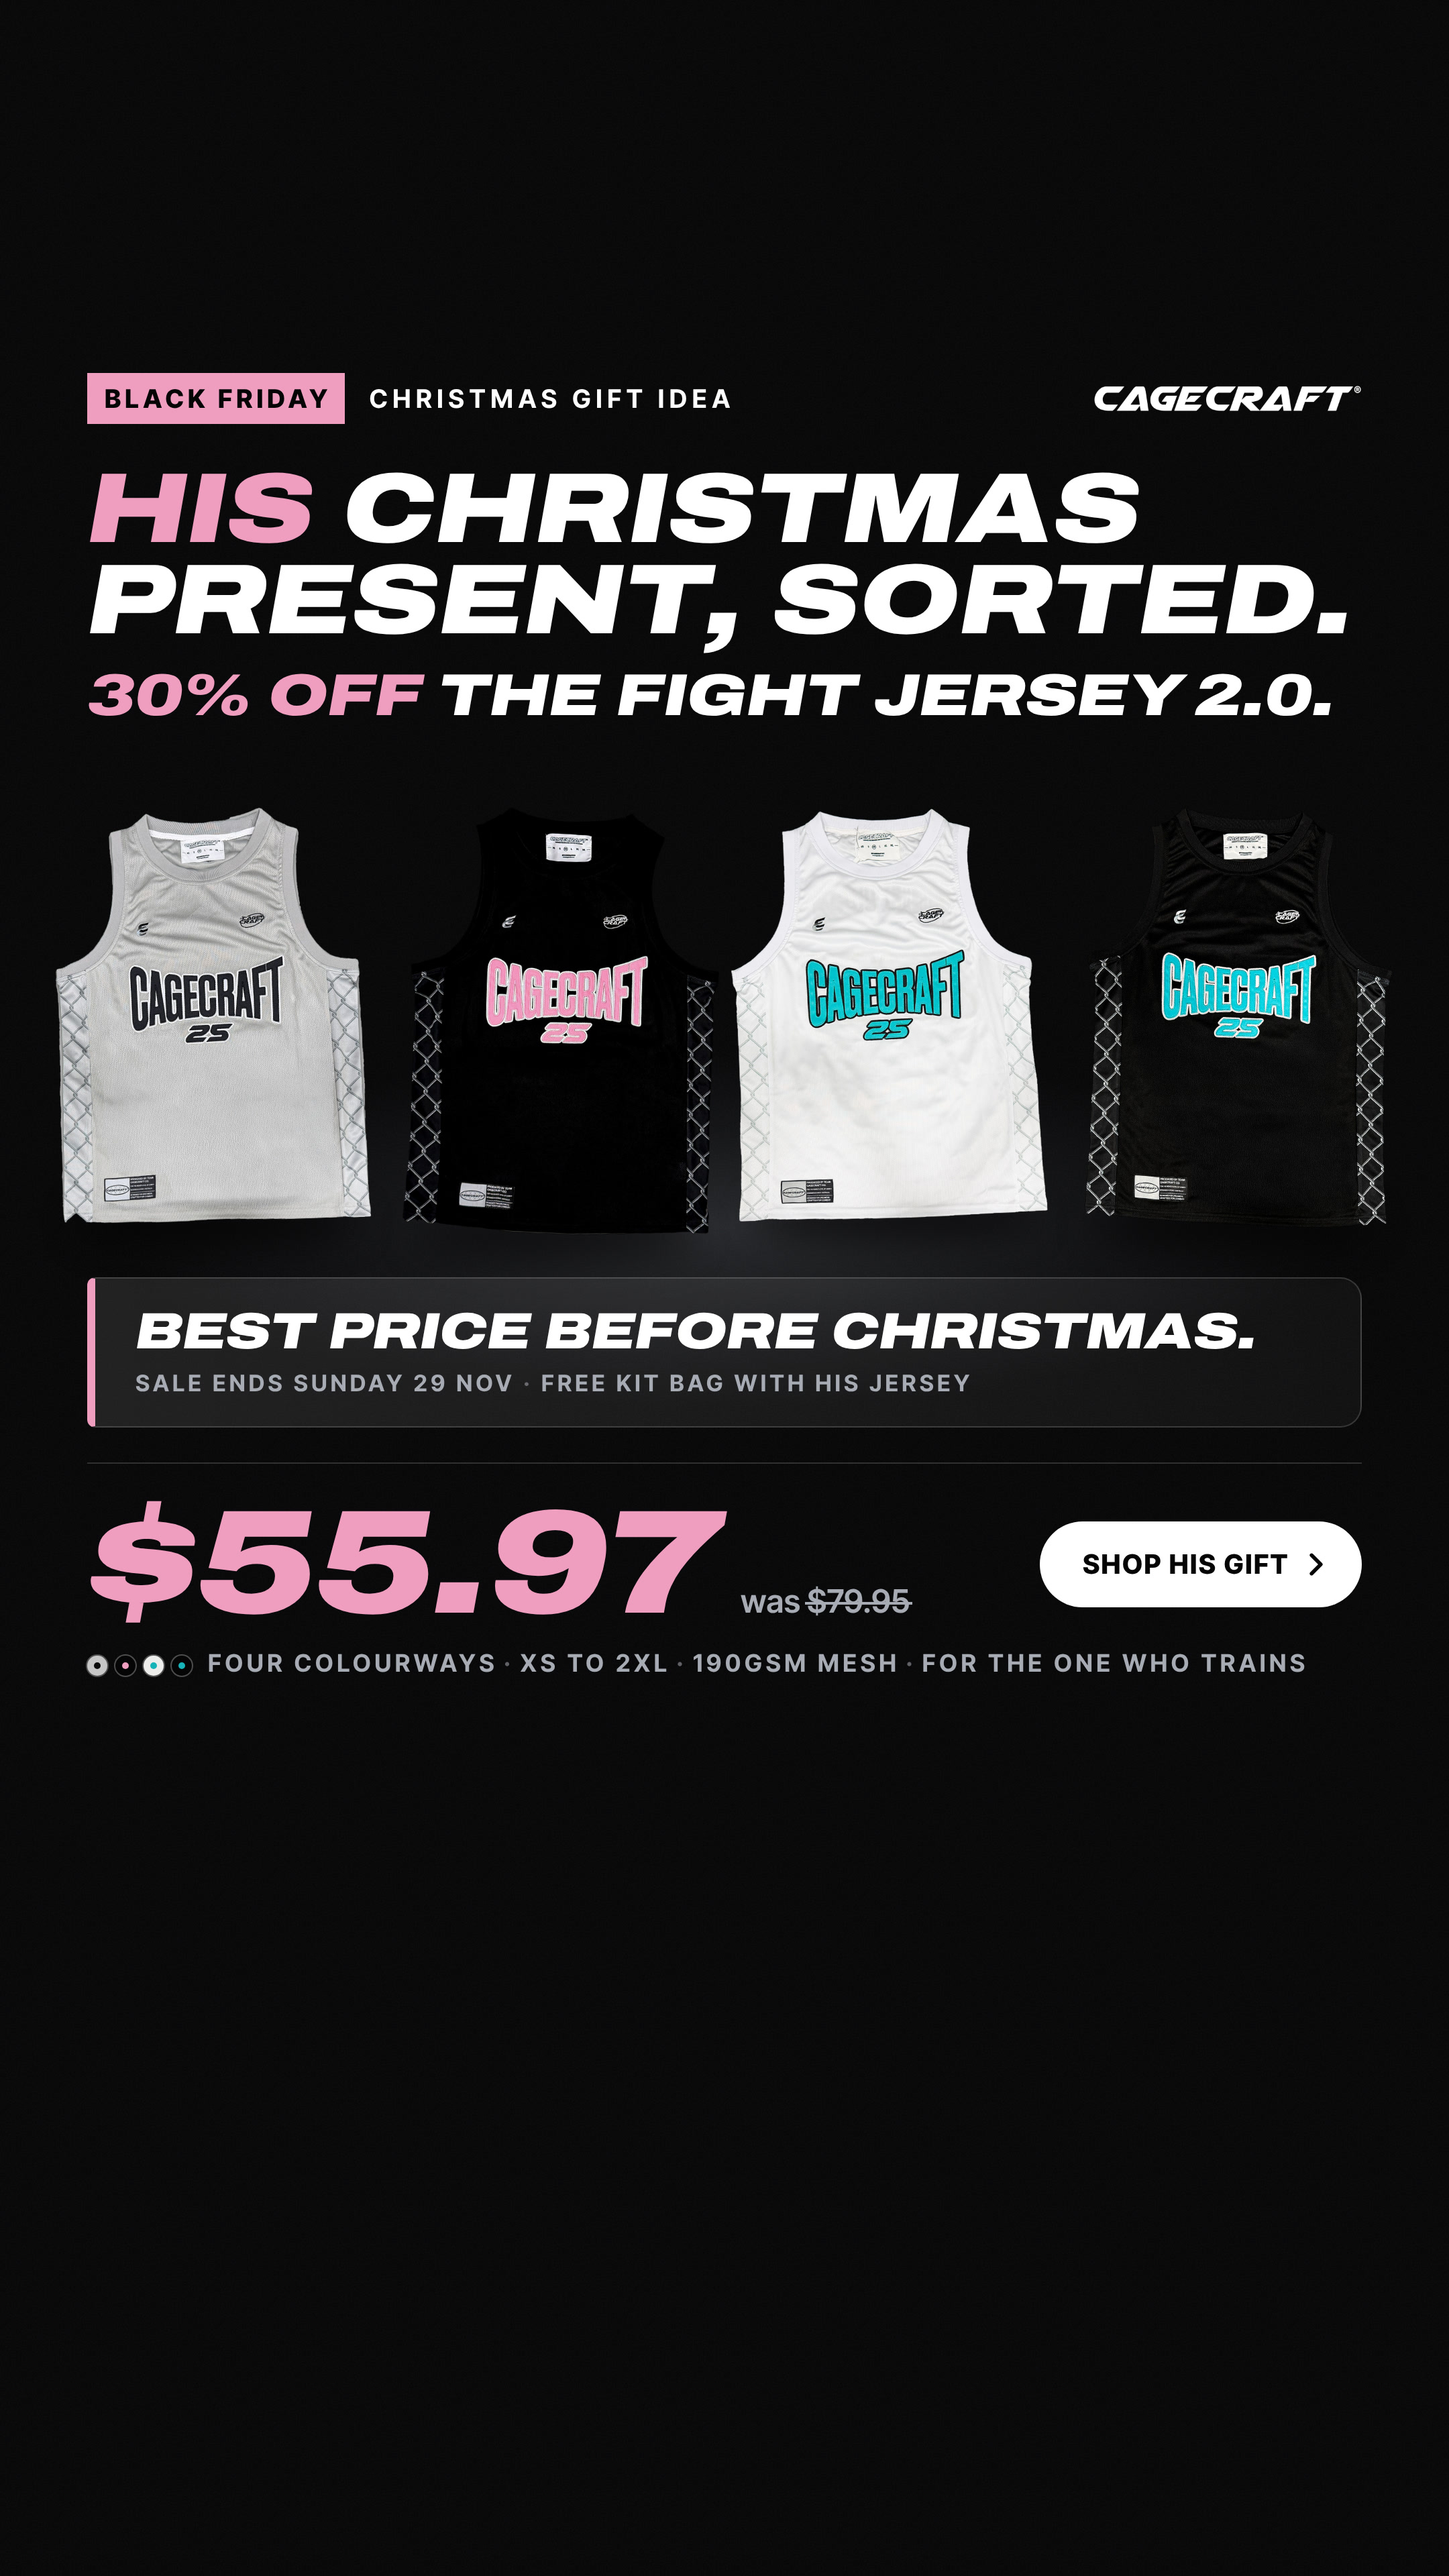
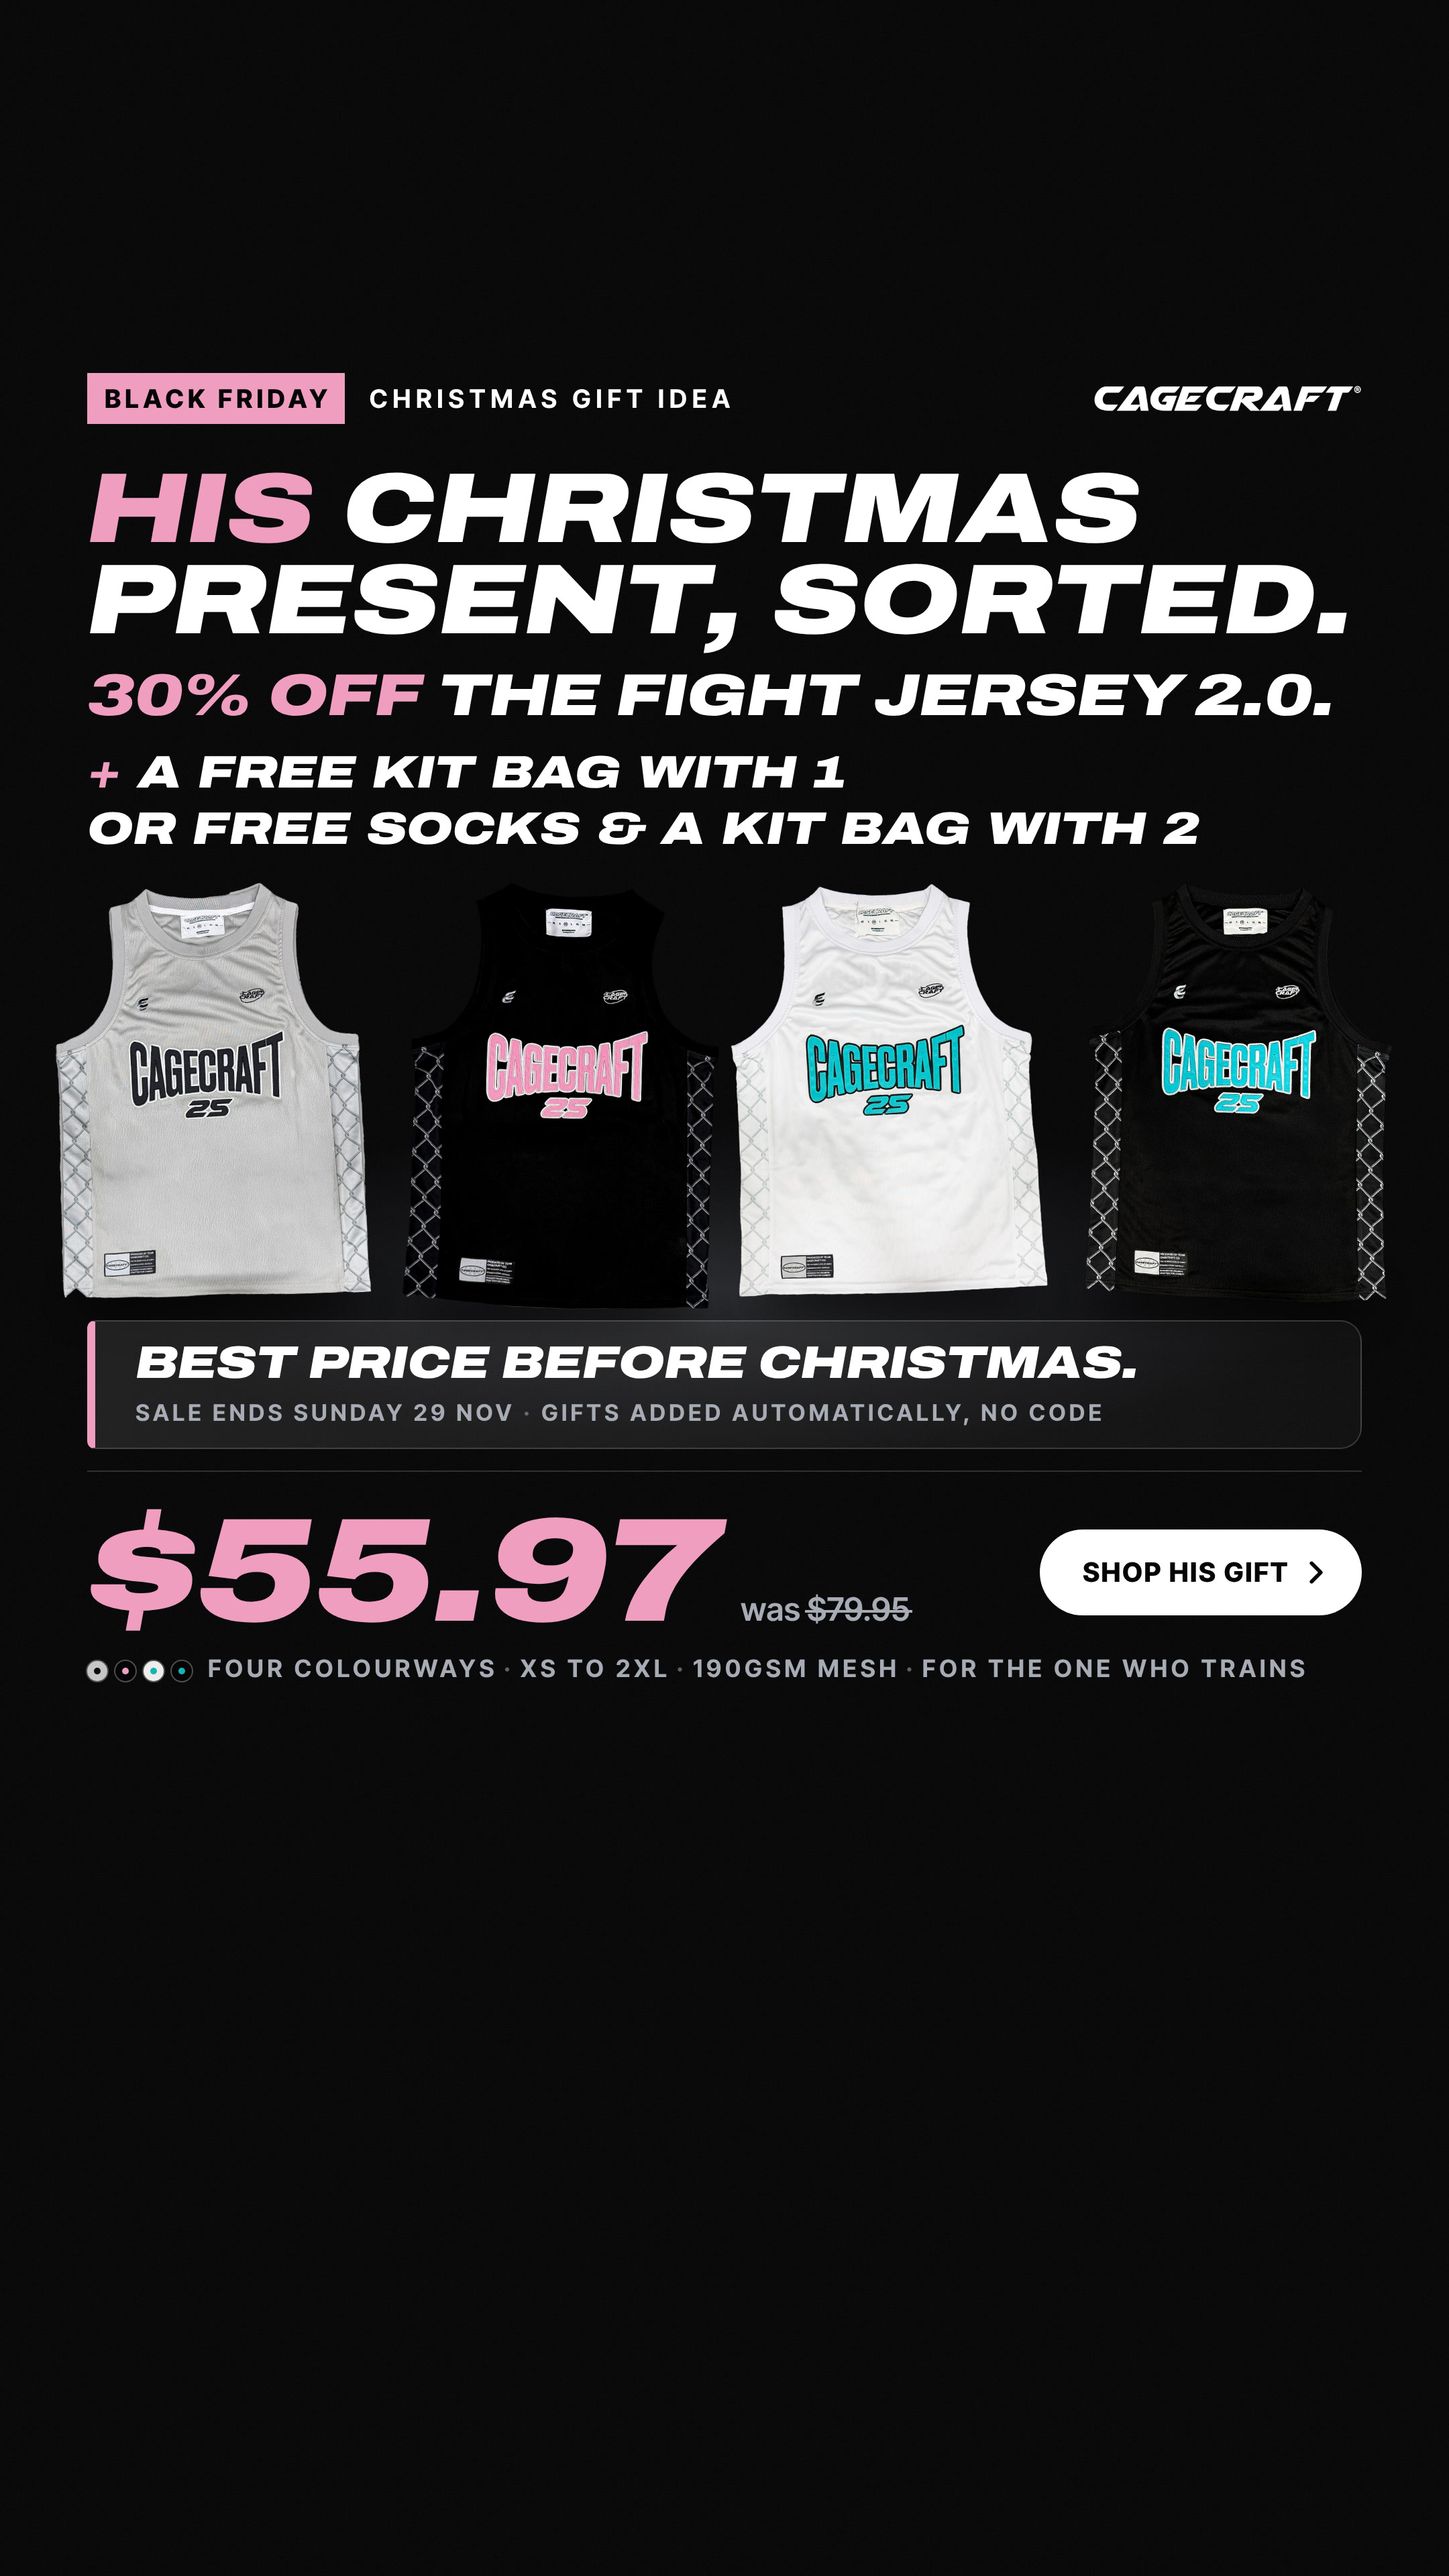
Add free-gift tier lines to the Christmas gift jersey ad
Claude-Session: https://claude.ai/code/session_01DwmoEmy8CSvczLcw7q8N8i

Changed region(s): [[0.031, 0.2812, 0.9616, 0.6562], [0.4963, 0.5938, 0.6204, 0.6562], [0.6514, 0.625, 0.6824, 0.6562]]

diff --git a/cagecraft-ads/ads/bf-10-jersey-gift-for-him/ad.html b/cagecraft-ads/ads/bf-10-jersey-gift-for-him/ad.html
@@ -63,6 +63,9 @@
   .headline .g em { font-style: inherit; color: var(--pink); }
   .headline .l2 { margin-top: 18px; }
   .headline .l2 em { font-style: inherit; color: var(--pink); }
+  .headline .l3 { display: block; font-size: 34px; line-height: 1; margin-top: 20px; white-space: nowrap; word-spacing: .08em; }
+  .headline .l3.b { margin-top: 8px; }
+  .headline .l3 em { font-style: inherit; color: var(--pink); }
   .strip { left: var(--side); right: var(--side); top: var(--strip-y); height: var(--strip-h); border: 1px solid var(--hair); border-left: 6px solid var(--pink); border-radius: 6px 16px 16px 6px;
     background: linear-gradient(90deg, rgba(255,255,255,.10), rgba(255,255,255,.04)); display: flex; flex-direction: column; justify-content: center; padding: 0 30px; }
   .strip .t1 { font-size: var(--strip-t, 40px); line-height: .95; color: #fff; white-space: nowrap; }
@@ -80,11 +83,13 @@
     <span class="g"><em>His</em> Christmas</span>
     <span class="g">present, sorted.</span>
     <span class="l2"><em>30% off</em> the Fight Jersey 2.0.</span>
+    <span class="l3"><em>+</em> A free kit bag with 1</span>
+    <span class="l3 b">or free socks &amp; a kit bag with 2</span>
   </div>
   <div class="abs lineup" id="lineup"></div>
   <div class="abs strip">
     <div class="t1 cc-display">Best price before Christmas.</div>
-    <div class="t2">Sale ends Sunday 29 Nov <span style="opacity:.55">·</span> Free kit bag with his jersey</div>
+    <div class="t2">Sale ends Sunday 29 Nov <span style="opacity:.55">·</span> Gifts added automatically, no code</div>
   </div>
   <div class="abs price-row">
     <div class="price"><span class="now cc-display">$55.97</span><span class="was">was <s>$79.95</s></span></div>
@@ -129,8 +134,8 @@
     el.style.display = "inline-block";
     while (el.getBoundingClientRect().width > maxW && fs > 20) { fs -= 1; el.style.fontSize = fs + "px"; }
     el.style.display = ""; }); }
-  const L = tall ? { labelsY: 278, headY: 346, priceY: 1090, factsY: 1232, top: 600, floorY: 915, floorH: 360, w: 236, step: 252, rot: 2, stripY: 952, stripH: 112, stripT: 38 }
-                 : { labelsY: 80, headY: 178, priceY: 1012, factsY: 1206, top: 492, floorY: 810, floorH: 340, w: 232, step: 252, rot: 2, stripY: 844, stripH: 130, stripT: 37 };
+  const L = tall ? { labelsY: 278, headY: 346, priceY: 1096, factsY: 1236, top: 656, floorY: 960, floorH: 340, w: 236, step: 252, rot: 2, stripY: 984, stripH: 96, stripT: 34 }
+                 : { labelsY: 80, headY: 178, priceY: 1024, factsY: 1212, top: 548, floorY: 850, floorH: 330, w: 236, step: 252, rot: 2, stripY: 884, stripH: 116, stripT: 37 };
   setVars({ "--labels-y": L.labelsY, "--head-y": L.headY, "--h2": 50, "--h-gap": 18, "--price-y": L.priceY, "--facts-y": L.factsY, "--floor-y": L.floorY, "--floor-h": L.floorH,
             "--strip-y": L.stripY, "--strip-h": L.stripH, "--strip-t": L.stripT });
   var maxW = 1080 - 2 * (tall ? 65 : 64);
